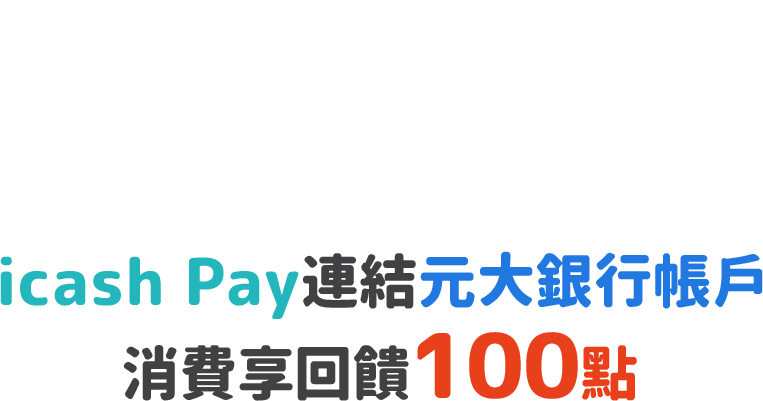
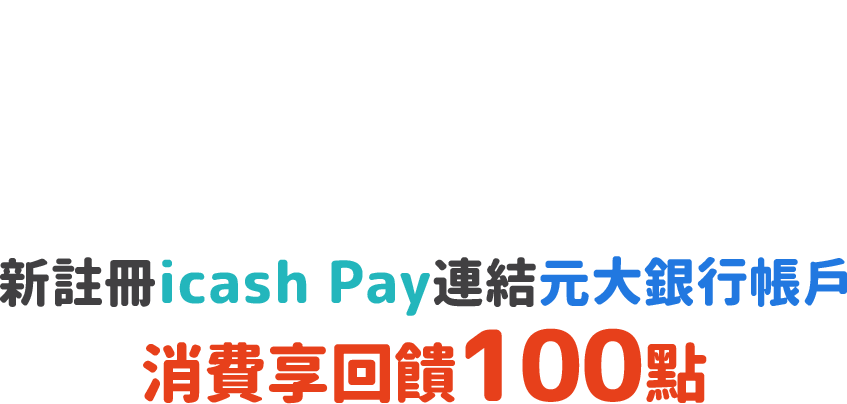
33

Changed region(s): [[0.0, 0.6284, 1.0, 0.808], [0.1507, 0.808, 0.844, 1.0], [0.633, 0.9875, 0.6632, 1.0]]

diff --git a/pluspay/assets/css/main.css b/pluspay/assets/css/main.css
@@ -14,12 +14,12 @@ img{margin: 0; padding: 0; display: block;}
 .kv .title{width: 50%; margin: 0 auto; padding-top: 1.5%;}
 .kv .title .kv_tit{width: 100%;}
 .kv .title .kv_subtit{width: 80%; margin: 0 auto;}
-.kv .peopleAll{width: 56%; position: absolute; top: 42.52%; left: 22%;}
+.kv .peopleAll{width: 56%; position: absolute; bottom: 0; left: 22%;}
 .kv .peopleAll .people{width: 100%; position: relative;}
 .kv .peopleAll .girlflag{width: 40%; position: absolute; left: -12%; top: -17%; -webkit-animation: sway 1.5s infinite ease-in-out; animation: sway 1.5s infinite ease-in-out; transform-origin: right bottom;}
 .kv .peopleAll .girlphone{width: 19%; position: absolute; left: 15%; top: -4%; -webkit-animation: sway 1.5s infinite ease-in-out; animation: sway 1.5s infinite ease-in-out; transform-origin: right bottom;}
 .kv .peopleAll .boyphone{width: 22%; position: absolute; left: 38.5%; top: -18%; -webkit-animation: sway 1.5s infinite ease-in-out; animation: sway 1.5s infinite ease-in-out; transform-origin: right bottom;}
-.kv .kv_logo{width: 26%; position: absolute; bottom: -4%; left: 37%;}
+.kv .kv_logo{width: 26%; position: absolute; bottom: -7%; left: 37%;}
 .mobOnly{display: none;}
 /* content */
 .content_container{ width: 100%; margin: 5% auto; background: url("../images/ribbon.png") center top no-repeat; background-size: 100% auto; color: #333333;}
@@ -34,7 +34,7 @@ img{margin: 0; padding: 0; display: block;}
 .tt_blue{color: #2178e0; font-weight: 700;}
 .tt_red{color: #ff4600; font-weight: 700;}
 .s_line{width: 70%; margin: 4% auto;}
-.duduAll{width: 25%; position: absolute; top: 22%; left: -5%;}
+.duduAll{width: 25%; position: absolute; top: 25%; left: -7%;}
 .duduAll .dudu{width: 100%; position: relative; -webkit-animation: move 2s infinite ease-in-out; animation: move 2s infinite ease-in-out;}
 .duduAll .shadow{width: 50%; position: absolute; left: 5%; bottom: -15%; -webkit-animation: shadow 2s infinite ease-in-out; animation: shadow 2s infinite ease-in-out;}
 .birdAll{width: 10%; position: absolute; top: 10%; left: 85%;}
@@ -52,14 +52,14 @@ img{margin: 0; padding: 0; display: block;}
 .btn:hover img{-webkit-transform:translateY(6px);transform:translateY(6px);}
 /* pluspay */
 .pluspay{}
-.account{padding:3% 5%;}
+.account{padding:3% 6%;}
 .step{position:relative;display:-webkit-flex;display:flex;}
-.step-title{position:absolute;top:0;right:4%;width:100%;max-width:58%;}
+.step-title{position:absolute;top:4%;right:4%;width:100%;max-width:58%;}
 .step-title img{width:100%;}
 .step-img{-webkit-flex:0 0 auto;flex:0 0 auto;max-width:32%; margin-top: 15px;}
 .step-img img{width:100%;}
 .step-content{-webkit-flex:1;flex:1;margin:10% 0 0 6%;}
-.step-content .subTitle{max-width:624px;padding-top:40px;}
+.step-content .subTitle{max-width:624px;padding-top:80px;}
 .step-content .subTitle img{width:80%;}
 .stepList{display:-webkit-flex;display:flex;margin-top:10px;}
 .stepList-num{-webkit-flex:0 0 40px;flex:0 0 40px;display:-webkit-flex;display:flex;-webkit-justify-content:center;justify-content:center;-webkit-align-items:center;align-items:center;background-color:#fa723f;}
@@ -122,38 +122,27 @@ img{margin: 0; padding: 0; display: block;}
 	transition: 0.3s;
 }
 #contTab:checked ~  .content-more .readmore:hover{opacity: 1}
-
-
+@media screen and (max-width: 1400px) {
+/* content */
+.content_container{margin: 10% auto 8%;}
+/* kv */
+.kv{width: 100%; max-width: 1400px; margin: 0 auto; height: 0; padding-bottom: 55.357143%; background: url("../images/kv_bg-1400.png") center top no-repeat; background-size: 100% auto;}
+.kv .title{width: 65%; margin: 0 auto; padding-top: 2%;}
+.kv .peopleAll{width: 78%; left: 11%;}
+.kv .kv_logo{width: 38%; bottom: -8%; left: 31%;}
+}
 @media screen and (max-width: 1024px) {
 .main{padding-top: 76px;}
 /* content */
 .event{width: 88%; padding: 5%;}
-.step{display:block;max-width:746px;margin:25px auto;}
-.step-title{position:static;box-sizing:border-box;max-width:637px;margin:auto;}
-.step-img{box-sizing:border-box;max-width:300px;margin:40px auto 20px;}
-.step-img img{width:80%;margin:0 auto;}
-.step-content{margin-top:40px;margin:10% 0 0;}
-.step-content .subTitle{max-width:541px;margin:auto;padding-top:0;padding-bottom:5px;padding-right:0;}
-.step-content .subTitle img{width:100%;margin:auto;}
 }
-@media screen and (max-width: 950px) {
+@media screen and (max-width: 960px) {
 .main{background: #feefd4 url("../images/kv_bg_line_m.png") center top repeat-y; background-size: 100% auto;}
-/* kv */
-.kv{width: 100%; height: 0; padding-bottom: 126%; margin: 0 auto; background: url("../images/kv_bg_m.png") center top no-repeat; background-size: 100% auto;}
-.kv .title{width: 92%; padding-top: 5%;}
-.kv .title .kv_subtit{width: 65%; padding-top: 3%;}
-.kv .peopleAll{width: 110%; top: 64%; left: -5%;}
-.kv .kv_logo{width: 70%; bottom: -7%; left: 15%;}
-.webOnly{display: none;}
-.mobOnly{display: block;}
 /* content */
-.content_container{margin: 20% auto 10%;background: none;}
-.content{width: 100%; max-width: 950px;}
+.content{width: 100%; max-width: 960px;}
 /* event */
-.event{width: 86%;}
+.event{width: 86%; padding: 5% 8%;}
 .event_tit{margin: 6% auto;}
-.event_txt{text-align: justify;}
-.event_date{text-align: center;}
 .s_line{width: 100%; margin: 8% auto;}
 .dudubirdAll{width: 85%; height: 0; padding-bottom: 80%; margin: 0 auto; position: relative;}
 .dudubirdAll .duduAll{width: 86%; position: absolute; top: 5%; left: 0;}
@@ -163,10 +152,30 @@ img{margin: 0; padding: 0; display: block;}
 .dudubirdAll .birdAll .bird{width: 100%; position: relative; -webkit-animation: move 1.5s infinite ease-in-out; animation: move 1.5s infinite ease-in-out;}
 .dudubirdAll .birdAll .shadow{width: 50%; position: absolute; left: 30%; bottom: -23%; -webkit-animation: shadow 1.5s infinite ease-in-out; animation: shadow 1.5s infinite ease-in-out;}
 .action{padding:10% 0;}
+/* pluspay */
+.step{display:block;max-width:746px;margin:25px auto;}
+.step-title{position:static;box-sizing:border-box;max-width:637px;margin:auto;}
+.step-img{box-sizing:border-box;max-width:300px;margin:40px auto 20px;}
+.step-img img{width:80%;margin:0 auto;}
+.step-content{margin-top:40px;margin:10% 0 0;}
+.step-content .subTitle{max-width:541px;margin:auto;padding-top:0;padding-bottom:5px;padding-right:0;}
+.step-content .subTitle img{width:100%;margin:auto;}
 }
 @media screen and (max-width:767px) {
 .main{padding-top: 58px;}
 /* content */
+.content_container{margin: 18% auto 10%; background: none;}
+/* kv */
+.kv{width: 100%; height: 0; padding-bottom: 126%; margin: 0 auto; background: url("../images/kv_bg_m.png") center top no-repeat; background-size: 100% auto;}
+.kv .title{width: 92%; padding-top: 5%;}
+.kv .title .kv_subtit{width: 65%; padding-top: 3%;}
+.kv .peopleAll{width: 110%; left: -5%;}
+.kv .kv_logo{width: 70%; bottom: -7%; left: 15%;}
+.webOnly{display: none;}
+.mobOnly{display: block;}
+/* content */
+.event_txt{text-align: justify;}
+.event_date{text-align: center;}
 .action{display:block;padding:10% 0;}
 .action-item{max-width:300px;margin:auto;}
 .action-item+.action-item{margin-top:30px;margin-left:auto;}
@@ -200,7 +209,7 @@ img{margin: 0; padding: 0; display: block;}
 .event{width: 86%; padding: 7%;}
 .event_tit img{width: 44px; margin-right: 10px;}
 .event_tit span{font-size: 22px;}
-.event_txt{font-size: 17px; padding:0 8%;}
+.event_txt{font-size: 17px; padding: 0 4%;}
 .event_txt .stxt{font-size: 14px;}
 .s_line{width: 100%; margin: 10% auto;}
 .action-item{max-width:220px;margin:auto;}

diff --git a/icashPay/index.html b/icashPay/index.html
@@ -9,12 +9,12 @@
     <link rel="shortcut icon" type="image/x-icon" href="https://www.yuantabank.com.tw/bank/resources/front/images/favicon.ico" />
 
     <meta name="keywords" content="帳戶支付連結,行動支付,電子支付,元大銀行,元大,數位存款,鑽金數位存款,icash Pay,愛金卡,icash, OPEN POINT" />
-    <meta name="description" content="活動期間新註冊icash Pay帳戶並連結元大銀行帳戶，於7-ELEVEN門市進行任一筆帳戶直扣消費贈100點OPEN POINT。" />
+    <meta name="description" content="活動期間新註冊icash Pay帳戶並連結元大銀行帳戶，於7-ELEVEN門市進行任一筆帳戶扣款消費贈100點OPEN POINT。" />
 
     <meta property="og:title" content="元大銀行｜icash Pay新戶輕鬆賺點數回饋活動" />
     <meta property="og:site_name" content="元大銀行" />
     <meta property="og:url" content="https://www.yuantabank.com.tw/bankwebIMG/event/Bank_Act2022/icashpay_new_client/index.html" />
-    <meta property="og:description" content="活動期間新註冊icash Pay帳戶並連結元大銀行帳戶，於7-ELEVEN門市進行任一筆帳戶直扣消費贈100點OPEN POINT。" />
+    <meta property="og:description" content="活動期間新註冊icash Pay帳戶並連結元大銀行帳戶，於7-ELEVEN門市進行任一筆帳戶扣款消費贈100點OPEN POINT。" />
 
     <!-- Facebook 縮圖 -->
     <link rel="image_src" href="https://www.yuantabank.com.tw/bankwebIMG/event/Bank_Act2022/icashpay_new_client/assets/share_img.png" />
@@ -90,7 +90,7 @@
                         <div class="eventcont">
                             <div class="event-title">活動內容</div>
                             <div class="event-txt">
-                                <p>活動期間<span class="highlight-red">新註冊icash Pay帳戶</span>並<span class="highlight-blue">連結元大銀行帳戶</span>，<br class="mob-none">且以該存款帳戶採<span class="highlight-blue">直扣交易方式</span>於<span class="highlight-red">7-ELEVEN實體門市</span>消費，<br class="mob-none">不限金額贈OPEN POINT點數<span class="highlight-red">100點</span>。<br class="mob-none"><span class="stxt">（活動期間每一icash Pay用戶回饋上限100點，總回饋上限500,000點。）</span></p>
+                                <p>活動期間<span class="highlight-red">新註冊icash Pay帳戶</span>並連結<span class="highlight-blue">元大銀行帳戶</span>，<br class="mob-none">且採<span class="highlight-blue">帳戶扣款</span>方式於<span class="highlight-red">7-ELEVEN實體門市</span>消費，<br class="mob-none">不限金額贈OPEN POINT點數<span class="highlight-red">100點</span>。<br class="mob-none"><span class="stxt">（活動期間每一icash Pay用戶回饋上限100點，總回饋上限500,000點。）</span></p>
                             </div>
                             <div class="account">
                                 <div class="step">
@@ -156,15 +156,14 @@
                         <ul>
                             <li>活動指定條件說明：
                                 <ol>
-                                    <li>活動期間新註冊icash Pay帳戶並連結元大銀行帳戶，且以該存款帳戶採直扣交易方式於7-ELEVEN實體門市消費，不限金額贈OPEN POINT點數100點，活動期間每一icash Pay用戶回饋上限100點，總回饋上限500,000點。</li>
-									<li>本活動須以icash Pay連結元大存款帳戶直接扣款消費(以銀行帳戶金額儲值、自動加值至icash Pay後付款不適用本活動)，方可獲得OPEN POINT加贈點數，部份或缺額支付、條件不符者恕不加贈。</li>
-									<li>本活動之交易不適用自動加值、現金加值、儲值類交易、菸類商品及代收代售項目。</li>
-									<li>活動期間每一icash Pay用戶回饋上限100點OPEN POINT，活動期間活動總回饋上限500,000點。</li>
-									<li>本活動限實體門市適用，消費所享之基本點數回饋依7-ELEVEN規定為主，基本點數於結帳時回饋，回饋之100點於消費當月之次次月底前匯入符合資格之icash Pay帳戶。活動點數計算至小數點後第二位(依小數點後第三位四捨五入計算)。</li>
+                                    <li>活動期間新註冊icash Pay帳戶並連結元大銀行帳戶，且採帳戶扣款方式於7-ELEVEN實體門市消費，不限金額贈OPEN POINT點數100點，活動期間每一icash Pay用戶回饋上限100點，總回饋上限500,000點，回饋之100點於2023年2月底前匯入符合資格之icash Pay帳戶。</li>
+                                    <li>本活動須以icash Pay連結元大存款帳戶直接扣款消費(以銀行帳戶金額儲值、自動加值至icash Pay後付款不適用本活動)，方可獲得OPEN POINT加贈點數，部份或缺額支付、條件不符者恕不加贈。</li>
+                                    <li>本活動之交易不適用自動加值、現金加值、儲值類交易、菸類商品、代收代售項目或其他經元大銀行公告不適用之項目。</li>
+                                    <li>本活動限實體門市適用，消費所享之基本點數回饋依7-ELEVEN規定為主，基本點數於結帳時回饋，點數計算至小數點後第二位(依小數點後第三位四捨五入計算)。</li>
                                 </ol>
                             </li>
                             <li>OPEN POINT由統一超商提供，紅利點數相關問題，請洽OPEN POINT客服中心：0800-711-177。</li>
-                            <li>使用icash Pay參與本活動應使用具備Android作業系統5.0以上或iOS作業系統12.0以上的手機，並請將OPEN POINT APP或icash Pay APP之應用程式及手機內建瀏覽器更新至最新版本。icash Pay用戶於獲得本活動回饋前及回饋當下仍應具有OPEN POINT 會員資格及icash Pay使用者資格，icash Pay與其銀行存款帳戶應為「連結狀態」且使用皆為「正常狀態」，入點時應符合本活動資格等相關規範。</li>
+                            <li>使用icash Pay參與本活動應使用具備Android作業系統5.0以上或iOS作業系統12.0以上的手機，並請將OPEN POINT APP或icash Pay APP之應用程式及手機內建瀏覽器更新至最新版本。icash Pay用戶於獲得本活動回饋前及回饋當下仍應具有OPEN POINT 會員資格及icash Pay使用者資格，icash Pay與其銀行存款帳戶應為「連結狀態」且使用皆為「正常狀態」，回饋入點時應符合本活動資格等相關規範。</li>
                             <li>詳細活動辦法以統一超商OPEN POINT網站、愛金卡公司及元大銀行網站公告為準。統一超商、愛金卡與元大銀行保留終止、取消、變更活動之權利。</li>
                             <li>本網站的立場及聲明：
                                 <ol>

diff --git a/icashPay/assets/css/main.css b/icashPay/assets/css/main.css
@@ -21,12 +21,12 @@ img{margin: 0; padding: 0; display: block;}
 /* -webkit-animation: shake 5s infinite ease-in-out; animation: shake 5s infinite ease-in-out; */}
 .kv .customer{width: 7.55%; height: 0; padding-bottom: 22.5%; background: url("../images/customer.png") center top no-repeat; background-size: 100% auto; position: absolute; top: 21%; left: 24%;}
 .kv .chair{display: none;}
-.kv .kv_tit{width: 32.135%; height: 0; padding-bottom: 15%; background: url("../images/kv_tit.png") center top no-repeat; background-size: 100% auto; position: absolute; top: 58.5%; left: 33.8%; opacity: 0; -webkit-animation: opacity .6s .8s ease-in-out forwards; animation: opacity .6s .8s ease-in-out forwards;}
+.kv .kv_tit{width: 40%; height: 0; padding-bottom: 15%; background: url("../images/kv_tit.png") center top no-repeat; background-size: 100% auto; position: absolute; top: 58.5%; left: 30%; opacity: 0; -webkit-animation: opacity .6s .8s ease-in-out forwards; animation: opacity .6s .8s ease-in-out forwards;}
 /* content */
 .content_container{ width: 100%; margin: 0 auto; background: #f4f4f4 url("../images/floor.jpg") center top no-repeat; background-size: 100% auto; color: #333333;}
 .content{width: 100%; max-width: 1200px; margin: 0 auto; font-size: 14px; line-height: 24px; text-align: justify; position: relative;}
 .content .event{text-align: center; font-weight: bold;}
-.content .event_logo{width: 33%; margin: 0 auto; padding-top: 2%;}
+.content .event_logo{width: 36%; margin: 0 auto; padding-top: 2%;}
 .web-none{display: none;}
 .content .period::before{content: ''; display: inline-block; vertical-align: bottom; width: 100%; height: 0; padding-bottom: 10.25%; background-image: url("../images/canopy.png"); background-repeat: no-repeat; background-size: 100% auto;}
 .content .eventcont{width: 80%; margin: 0 auto; background: #feeccc; padding: 3% 0;}
@@ -123,9 +123,9 @@ img{margin: 0; padding: 0; display: block;}
 .kv .staff_hand{width: 7.5%; height: 0; padding-bottom: 8%; top: 26.7%; left: 42.3%;}
 .kv .staff{width: 17%; height: 0; padding-bottom: 29%; position: absolute; top: 16%; left: 40%;}
 .kv .table{width: 80%; padding-bottom: 32%; top: 52.9%; left: 10%;}
-.kv .customer_hand{width: 8%; height: 0; padding-bottom: 12%; top: 25.2%; left: 19.5%;}
-.kv .customer{width: 11%; height: 0; padding-bottom: 32.35%; top: 24%; left: 14%;} 
-.kv .kv_tit{width: 44%; height: 0; padding-bottom: 20%; top: 59%; left: 28%;}
+.kv .customer_hand{width: 8%; height: 0; padding-bottom: 12%; top: 20.3%; left: 16.7%;}
+.kv .customer{width: 11%; height: 0; padding-bottom: 32.35%; top: 19%; left: 11%;} 
+.kv .kv_tit{width: 54%; height: 0; padding-bottom: 20%; top: 59%; left: 23%;}
 /* content */
 .content_container{ width: 100%; margin: 0 auto; background: #f4f4f4 url("../images/floor-1400.jpg") center top no-repeat; background-size: 100% auto;}
 }
@@ -149,19 +149,17 @@ img{margin: 0; padding: 0; display: block;}
 /* notice */
 .notice{width: 92%; padding: 5% 3% 3%;}
 }
-@media only screen and (max-width:768px) {
-.main{padding-top: 58px;}
-}
 @media only screen and (max-width:767px){
+.main{padding-top: 58px;}
 /* kv */
 .kv{width: 100%; height: 0; padding-bottom: 125.52%; margin: 0 auto; background: #f1f5fe url("../images/kv_bg-m.jpg") center top no-repeat; background-size: 100% auto;position: relative;}
 .kv .staff_hand{width: 15.3%; height: 0; padding-bottom: 15.4%; top: 30.8%; left: 54.2%;}
 .kv .staff{width: 36%; height: 0; padding-bottom: 51.5%; position: absolute; top: 21.2%; left: 49%;}
 .kv .table{width: 100%; padding-bottom: 32%; background: url("../images/table-m.png") center top no-repeat; background-size: 100% auto; top: 54.2%; left: 0;}
-.kv .customer_hand{width: 17.5%; height: 0; padding-bottom: 28%; top: 29%; left: 14.9%;}
-.kv .customer{width: 21.375%; height: 0; padding-bottom: 68.35%; background: url("../images/customer-m.png") center top no-repeat; background-size: 100% auto; top: 28%; left: 3%;}
+.kv .customer_hand{width: 17.5%; height: 0; padding-bottom: 28%; top: 28%; left: 14.9%;}
+.kv .customer{width: 21.375%; height: 0; padding-bottom: 68.35%; background: url("../images/customer-m.png") center top no-repeat; background-size: 100% auto; top: 27%; left: 3%;}
 .kv .chair{display: block; width: 11.5%; height: 19%; position: absolute; top: 64%; left: 87%;}
-.kv .kv_tit{width: 84%; padding-bottom: 44.2%; background: url("../images/kv_tit-m.png") center top no-repeat; background-size: 100% auto; top: 61.5%; left: 8%;}
+.kv .kv_tit{width: 90%; padding-bottom: 44.2%; background: url("../images/kv_tit-m.png") center top no-repeat; background-size: 100% auto; top: 62%; left: 5%;}
 /* content */
 .content_container{ width: 100%; margin: 0 auto; background: #f4f4f4 url("../images/floor-m.jpg") center top no-repeat; background-size: 100% auto;}
 .content .event_logo{width: 68%;}

diff --git a/pluspay/index.html b/pluspay/index.html
@@ -164,7 +164,7 @@
                                 </div>
                             </div>
                             <div class="moreInfo">
-                                <a href="https://www.yuantabank.com.tw/bankwebIMG/event/Bank_Act2020/ACCLink/icash_pay_inner_acount.html" id="Icmore" target="_blank">※ <span class="bold">更多詳細資訊</span> ※</a>
+                                <a href="https://www.yuantabank.com.tw/bankwebIMG/event/Bank_Act2020/ACCLink/plus_pay_inner_acount.html" id="Icmore" target="_blank">※ <span class="bold">更多詳細資訊</span> ※</a>
                             </div>
                         </div>
                     </div>
